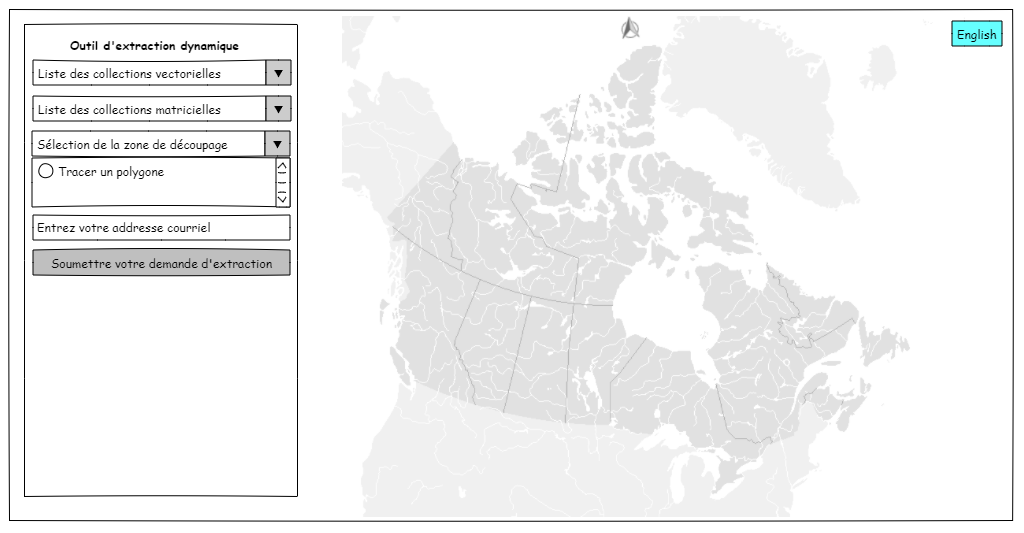
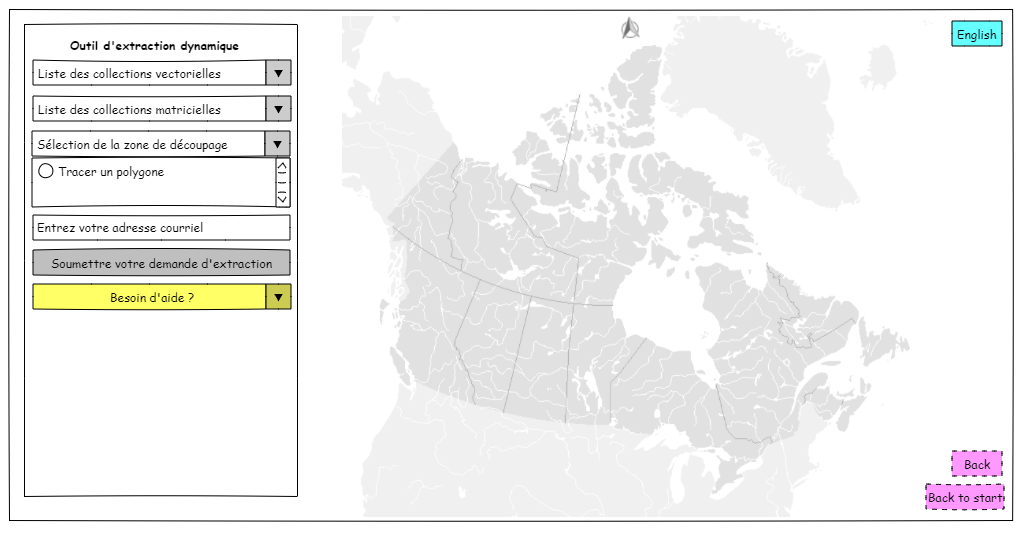
Ajout d'un menu d'aide

Changed region(s): [[0.0312, 0.5103, 0.3125, 0.6004], [0.9062, 0.8405, 1.0, 0.9606], [0.125, 0.4203, 0.2188, 0.4503]]

diff --git a/czs/mockup/phase_1/index.html b/czs/mockup/phase_1/index.html
@@ -1,120 +1,2 @@
-<html xmlns="http://www.w3.org/1999/xhtml"
-    xmlns:p="http://www.evolus.vn/Namespace/Pencil"
-    xmlns:html="http://www.w3.org/1999/xhtml"><head><meta
-            http-equiv="Content-Type" content="text/html; charset=UTF-8" />
-        <title>CZS_plugin_mockup_phase_I</title><link rel="stylesheet"
-            href="Resources/style.css" /><script type="application/javascript"
-            src="Resources/script.js"></script></head><body><h1
-            id="documentTitle">CZS_plugin_mockup_phase_I</h1><p
-            id="documentMetadata">Exported at: Fri Mar 17 2023 10:22:33 GMT-0400
-            (Eastern Daylight Time)</p><div class="Page" id="start_page"><h2>start</h2><div
-                class="ImageContainer"><img src="pages\start.png" width="1024"
-                    height="533" usemap="#map_start" /></div><map
-                name="map_start"><area shape="rect" coords="32,131,290,156.75"
-                    href="#drawpolygone_page" title="Go to page 'draw_polygone'"
-                    /><area shape="rect" coords="33,60,291,85"
-                    href="#vectorlist_page" title="Go to page 'vector_list'" /><area
-                    shape="rect" coords="952,21,1002,46"
-                    href="#switchtoenglish_page" title="Go to page
-                    'switch_to_english'" /></map></div><div class="Page"
-            id="vectorlist_page"><h2>vector_list</h2><div
-                class="ImageContainer"><img src="pages\vectorlist.png"
-                    width="1024" height="533" usemap="#map_vectorlist" /></div><map
-                name="map_vectorlist"><area shape="rect"
-                    coords="39.82864761352539,116,264.705081939697,132"
-                    href="#selectbuildinglayer_page" title="Go to page
-                    'select_building_layer'" /><area shape="rect"
-                    coords="33,60,291,85" href="#vectorlist_page" title="Go to
-                    page 'vector_list'" /></map></div><div class="Page"
-            id="selectbuildinglayer_page"><h2>select_building_layer</h2><div
-                class="ImageContainer"><img src="pages\selectbuildinglayer.png"
-                    width="1024" height="533" usemap="#map_selectbuildinglayer"
-                    /></div><map name="map_selectbuildinglayer"><area
-                    shape="rect" coords="32,256,290,281.75"
-                    href="#selectbuildingdrawpolygone_page" title="Go to page
-                    'select_building_draw_polygone'" /><area shape="rect"
-                    coords="33,60,291,85" href="#vectorlist_page" title="Go to
-                    page 'vector_list'" /></map></div><div class="Page"
-            id="selectbuildingdrawpolygone_page"><h2>select_building_draw_polygone</h2><div
-                class="ImageContainer"><img
-                    src="pages\selectbuildingdrawpolygone.png" width="1024"
-                    height="533" usemap="#map_selectbuildingdrawpolygone" /></div><map
-                name="map_selectbuildingdrawpolygone"><area shape="rect"
-                    coords="38.82864761352539,288,164.480472564697,304"
-                    href="#selectbuildingdraw_page" title="Go to page
-                    'select_building_draw'" /><area shape="rect"
-                    coords="32,256,290,281.75" href="#drawpolygone_page"
-                    title="Go to page 'draw_polygone'" /><area shape="rect"
-                    coords="33,60,291,85" href="#vectorlist_page" title="Go to
-                    page 'vector_list'" /></map></div><div class="Page"
-            id="selectbuildingdraw_page"><h2>select_building_draw</h2><div
-                class="ImageContainer"><img src="pages\selectbuildingdraw.png"
-                    width="1024" height="533" usemap="#map_selectbuildingdraw"
-                    /></div><map name="map_selectbuildingdraw"><area
-                    shape="rect" coords="33,340,290,365" href="#addemail_page"
-                    title="Go to page 'add_email'" /><area shape="rect"
-                    coords="32,256,290,281.75" href="#drawpolygone_page"
-                    title="Go to page 'draw_polygone'" /><area shape="rect"
-                    coords="33,60,291,85" href="#vectorlist_page" title="Go to
-                    page 'vector_list'" /></map></div><div class="Page"
-            id="drawpolygone_page"><h2>draw_polygone</h2><div
-                class="ImageContainer"><img src="pages\drawpolygone.png"
-                    width="1024" height="533" usemap="#map_drawpolygone" /></div><map
-                name="map_drawpolygone"><area shape="rect"
-                    coords="38.82864761352539,163,164.480472564697,179"
-                    href="#draw_page" title="Go to page 'draw'" /><area
-                    shape="rect" coords="33,60,291,85" href="#vectorlist_page"
-                    title="Go to page 'vector_list'" /></map></div><div
-            class="Page" id="draw_page"><h2>draw</h2><div
-                class="ImageContainer"><img src="pages\draw.png" width="1024"
-                    height="533" usemap="#map_draw" /></div><map
-                name="map_draw"><area shape="rect" coords="33,60,291,85"
-                    href="#drawselectcollection_page" title="Go to page
-                    'draw_select_collection'" /></map></div><div class="Page"
-            id="drawselectcollection_page"><h2>draw_select_collection</h2><div
-                class="ImageContainer"><img src="pages\drawselectcollection.png"
-                    width="1024" height="533" usemap="#map_drawselectcollection"
-                    /></div><map name="map_drawselectcollection"><area
-                    shape="rect"
-                    coords="39.82864761352539,116,264.705081939697,132"
-                    href="#drawselectbuildingcollection_page" title="Go to page
-                    'draw_select_building_collection'" /><area shape="rect"
-                    coords="33,60,291,85" href="#vectorlist_page" title="Go to
-                    page 'vector_list'" /></map></div><div class="Page"
-            id="drawselectbuildingcollection_page"><h2>draw_select_building_collection</h2><div
-                class="ImageContainer"><img
-                    src="pages\drawselectbuildingcollection.png" width="1024"
-                    height="533" usemap="#map_drawselectbuildingcollection" /></div><map
-                name="map_drawselectbuildingcollection"><area shape="rect"
-                    coords="33,342,290,367" href="#addemail_page" title="Go to
-                    page 'add_email'" /><area shape="rect" coords="33,60,291,85"
-                    href="#vectorlist_page" title="Go to page 'vector_list'" /></map></div><div
-            class="Page" id="addemail_page"><h2>add_email</h2><div
-                class="ImageContainer"><img src="pages\addemail.png"
-                    width="1024" height="533" usemap="#map_addemail" /></div><map
-                name="map_addemail"><area shape="rect"
-                    coords="33,375.5,290,402.75" href="#validaterequest_page"
-                    title="Go to page 'validate_request'" /><area shape="rect"
-                    coords="33,60,291,85" href="#vectorlist_page" title="Go to
-                    page 'vector_list'" /></map></div><div class="Page"
-            id="validaterequest_page"><h2>validate_request</h2><div
-                class="ImageContainer"><img src="pages\validaterequest.png"
-                    width="1024" height="533" usemap="#map_validaterequest" /></div><map
-                name="map_validaterequest"><area shape="rect"
-                    coords="33,375.5,290,402.75" href="#sendrequest_page"
-                    title="Go to page 'send_request'" /><area shape="rect"
-                    coords="33,60,291,85" href="#vectorlist_page" title="Go to
-                    page 'vector_list'" /></map></div><div class="Page"
-            id="sendrequest_page"><h2>send_request</h2><div
-                class="ImageContainer"><img src="pages\sendrequest.png"
-                    width="1024" height="533" usemap="#map_sendrequest" /></div><map
-                name="map_sendrequest"><area shape="rect" coords="33,60,291,85"
-                    href="#vectorlist_page" title="Go to page 'vector_list'" /></map></div><div
-            class="Page" id="switchtoenglish_page"><h2>switch_to_english</h2><div
-                class="ImageContainer"><img src="pages\switchtoenglish.png"
-                    width="1024" height="533" usemap="#map_switchtoenglish" /></div><map
-                name="map_switchtoenglish"><area shape="rect"
-                    coords="32,131,290,156.75" href="#drawpolygone_page"
-                    title="Go to page 'draw_polygone'" /><area shape="rect"
-                    coords="33,60,291,85" href="#vectorlist_page" title="Go to
-                    page 'vector_list'" /></map></div></body></html>
+<html xmlns="http://www.w3.org/1999/xhtml" xmlns:p="http://www.evolus.vn/Namespace/Pencil" xmlns:html="http://www.w3.org/1999/xhtml"><head><meta http-equiv="Content-Type" content="text/html; charset=UTF-8" />
+<title>CZS_plugin_mockup_phase_I</title><link rel="stylesheet" href="Resources/style.css" /><script type="application/javascript" src="Resources/script.js"></script></head><body><h1 id="documentTitle">CZS_plugin_mockup_phase_I</h1><p id="documentMetadata">Exported at: Mon Mar 20 2023 10:03:12 GMT-0400 (Eastern Daylight Time)</p><div class="Page" id="start_page"><h2>start</h2><div class="ImageContainer"><img src="pages\start.png" width="1024" height="533" usemap="#map_start" /></div><map name="map_start"><area shape="rect" coords="32,234,290,259.75" href="#besoinaide_page" title="Go to page 'besoin_aide'" /><area shape="rect" coords="32,131,290,156.75" href="#drawpolygone_page" title="Go to page 'draw_polygone'" /><area shape="rect" coords="33,60,291,85" href="#vectorlist_page" title="Go to page 'vector_list'" /><area shape="rect" coords="952,21,1002,46" href="#switchtoenglish_page" title="Go to page 'switch_to_english'" /></map></div><div class="Page" id="vectorlist_page"><h2>vector_list</h2><div class="ImageContainer"><img src="pages\vectorlist.png" width="1024" height="533" usemap="#map_vectorlist" /></div><map name="map_vectorlist"><area shape="rect" coords="33,358,291,383.75" href="#drawpolygone_page" title="Go to page 'draw_polygone'" /><area shape="rect" coords="926,484,1004,509.75" href="#start_page" title="Go to page 'start'" /><area shape="rect" coords="952,451,1002,476" href="#start_page" title="Go to page 'start'" /><area shape="rect" coords="39.82864761352539,116,264.705081939697,132" href="#selectbuildinglayer_page" title="Go to page 'select_building_layer'" /><area shape="rect" coords="33,60,291,85" href="#vectorlist_page" title="Go to page 'vector_list'" /></map></div><div class="Page" id="selectbuildinglayer_page"><h2>select_building_layer</h2><div class="ImageContainer"><img src="pages\selectbuildinglayer.png" width="1024" height="533" usemap="#map_selectbuildinglayer" /></div><map name="map_selectbuildinglayer"><area shape="rect" coords="33,358,291,383" href="#drawpolygone_page" title="Go to page 'draw_polygone'" /><area shape="rect" coords="926,485,1004,510.75" href="#start_page" title="Go to page 'start'" /><area shape="rect" coords="952,452,1002,477" href="#vectorlist_page" title="Go to page 'vector_list'" /><area shape="rect" coords="32,256,290,281.75" href="#selectbuildingdrawpolygone_page" title="Go to page 'select_building_draw_polygone'" /><area shape="rect" coords="33,60,291,85" href="#vectorlist_page" title="Go to page 'vector_list'" /></map></div><div class="Page" id="selectbuildingdrawpolygone_page"><h2>select_building_draw_polygone</h2><div class="ImageContainer"><img src="pages\selectbuildingdrawpolygone.png" width="1024" height="533" usemap="#map_selectbuildingdrawpolygone" /></div><map name="map_selectbuildingdrawpolygone"><area shape="rect" coords="33,409,291,434.75" href="#drawpolygone_page" title="Go to page 'draw_polygone'" /><area shape="rect" coords="926,487,1004,512.75" href="#start_page" title="Go to page 'start'" /><area shape="rect" coords="952,454,1002,479" href="#selectbuildinglayer_page" title="Go to page 'select_building_layer'" /><area shape="rect" coords="38.82864761352539,288,164.480472564697,304" href="#selectbuildingdraw_page" title="Go to page 'select_building_draw'" /><area shape="rect" coords="32,256,290,281.75" href="#drawpolygone_page" title="Go to page 'draw_polygone'" /><area shape="rect" coords="33,60,291,85" href="#vectorlist_page" title="Go to page 'vector_list'" /></map></div><div class="Page" id="selectbuildingdraw_page"><h2>select_building_draw</h2><div class="ImageContainer"><img src="pages\selectbuildingdraw.png" width="1024" height="533" usemap="#map_selectbuildingdraw" /></div><map name="map_selectbuildingdraw"><area shape="rect" coords="33,407.5,291,434" href="#drawpolygone_page" title="Go to page 'draw_polygone'" /><area shape="rect" coords="924,484,1002,509.75" href="#selectbuildingdrawpolygone_page" title="Go to page 'select_building_draw_polygone'" /><area shape="rect" coords="950,451,1000,476" href="#selectbuildingdrawpolygone_page" title="Go to page 'select_building_draw_polygone'" /><area shape="rect" coords="33,340,290,365" href="#addemail_page" title="Go to page 'add_email'" /><area shape="rect" coords="32,256,290,281.75" href="#drawpolygone_page" title="Go to page 'draw_polygone'" /><area shape="rect" coords="33,60,291,85" href="#vectorlist_page" title="Go to page 'vector_list'" /></map></div><div class="Page" id="drawpolygone_page"><h2>draw_polygone</h2><div class="ImageContainer"><img src="pages\drawpolygone.png" width="1024" height="533" usemap="#map_drawpolygone" /></div><map name="map_drawpolygone"><area shape="rect" coords="33,284,291,309.75" href="#drawpolygone_page" title="Go to page 'draw_polygone'" /><area shape="rect" coords="926,484,1004,509.75" href="#start_page" title="Go to page 'start'" /><area shape="rect" coords="952,451,1002,476" href="#start_page" title="Go to page 'start'" /><area shape="rect" coords="38.82864761352539,163,164.480472564697,179" href="#draw_page" title="Go to page 'draw'" /><area shape="rect" coords="33,60,291,85" href="#vectorlist_page" title="Go to page 'vector_list'" /></map></div><div class="Page" id="draw_page"><h2>draw</h2><div class="ImageContainer"><img src="pages\draw.png" width="1024" height="533" usemap="#map_draw" /></div><map name="map_draw"><area shape="rect" coords="33,284,291,309" href="#drawpolygone_page" title="Go to page 'draw_polygone'" /><area shape="rect" coords="926,484,1004,509.75" href="#start_page" title="Go to page 'start'" /><area shape="rect" coords="952,451,1002,476" href="#drawpolygone_page" title="Go to page 'draw_polygone'" /><area shape="rect" coords="33,60,291,85" href="#drawselectcollection_page" title="Go to page 'draw_select_collection'" /></map></div><div class="Page" id="drawselectcollection_page"><h2>draw_select_collection</h2><div class="ImageContainer"><img src="pages\drawselectcollection.png" width="1024" height="533" usemap="#map_drawselectcollection" /></div><map name="map_drawselectcollection"><area shape="rect" coords="33,410,291,435.75" href="#drawpolygone_page" title="Go to page 'draw_polygone'" /><area shape="rect" coords="926,484,1004,509.75" href="#start_page" title="Go to page 'start'" /><area shape="rect" coords="952,451,1002,476" href="#draw_page" title="Go to page 'draw'" /><area shape="rect" coords="39.82864761352539,116,264.705081939697,132" href="#drawselectbuildingcollection_page" title="Go to page 'draw_select_building_collection'" /><area shape="rect" coords="33,60,291,85" href="#vectorlist_page" title="Go to page 'vector_list'" /></map></div><div class="Page" id="drawselectbuildingcollection_page"><h2>draw_select_building_collection</h2><div class="ImageContainer"><img src="pages\drawselectbuildingcollection.png" width="1024" height="533" usemap="#map_drawselectbuildingcollection" /></div><map name="map_drawselectbuildingcollection"><area shape="rect" coords="33,410,291,435" href="#drawpolygone_page" title="Go to page 'draw_polygone'" /><area shape="rect" coords="926,484,1004,509.75" href="#start_page" title="Go to page 'start'" /><area shape="rect" coords="952,451,1002,476" href="#drawselectcollection_page" title="Go to page 'draw_select_collection'" /><area shape="rect" coords="33,342,290,367" href="#addemail_page" title="Go to page 'add_email'" /><area shape="rect" coords="33,60,291,85" href="#vectorlist_page" title="Go to page 'vector_list'" /></map></div><div class="Page" id="addemail_page"><h2>add_email</h2><div class="ImageContainer"><img src="pages\addemail.png" width="1024" height="533" usemap="#map_addemail" /></div><map name="map_addemail"><area shape="rect" coords="32,409,290,434.75" href="#besoinaide_page" title="Go to page 'besoin_aide'" /><area shape="rect" coords="926,484,1004,509.75" href="#start_page" title="Go to page 'start'" /><area shape="rect" coords="952,451,1002,476" href="#start_page" title="Go to page 'start'" /><area shape="rect" coords="33,375.5,290,402.75" href="#validaterequest_page" title="Go to page 'validate_request'" /><area shape="rect" coords="33,60,291,85" href="#vectorlist_page" title="Go to page 'vector_list'" /></map></div><div class="Page" id="validaterequest_page"><h2>validate_request</h2><div class="ImageContainer"><img src="pages\validaterequest.png" width="1024" height="533" usemap="#map_validaterequest" /></div><map name="map_validaterequest"><area shape="rect" coords="32,409,290,434.75" href="#besoinaide_page" title="Go to page 'besoin_aide'" /><area shape="rect" coords="926,484,1004,509.75" href="#start_page" title="Go to page 'start'" /><area shape="rect" coords="952,451,1002,476" href="#addemail_page" title="Go to page 'add_email'" /><area shape="rect" coords="33,375.5,290,402.75" href="#sendrequest_page" title="Go to page 'send_request'" /><area shape="rect" coords="33,60,291,85" href="#vectorlist_page" title="Go to page 'vector_list'" /></map></div><div class="Page" id="sendrequest_page"><h2>send_request</h2><div class="ImageContainer"><img src="pages\sendrequest.png" width="1024" height="533" usemap="#map_sendrequest" /></div><map name="map_sendrequest"><area shape="rect" coords="33,479,291,504.75" href="#drawpolygone_page" title="Go to page 'draw_polygone'" /><area shape="rect" coords="926,484,1004,509.75" href="#start_page" title="Go to page 'start'" /><area shape="rect" coords="952,451,1002,476" href="#validaterequest_page" title="Go to page 'validate_request'" /><area shape="rect" coords="33,38,291,63" href="#vectorlist_page" title="Go to page 'vector_list'" /></map></div><div class="Page" id="switchtoenglish_page"><h2>switch_to_english</h2><div class="ImageContainer"><img src="pages\switchtoenglish.png" width="1024" height="533" usemap="#map_switchtoenglish" /></div><map name="map_switchtoenglish"><area shape="rect" coords="926,484,1004,509.75" href="#start_page" title="Go to page 'start'" /><area shape="rect" coords="952,451,1002,476" href="#start_page" title="Go to page 'start'" /><area shape="rect" coords="32,234,290,259.75" href="#drawpolygone_page" title="Go to page 'draw_polygone'" /><area shape="rect" coords="32,131,290,156.75" href="#drawpolygone_page" title="Go to page 'draw_polygone'" /><area shape="rect" coords="33,60,291,85" href="#vectorlist_page" title="Go to page 'vector_list'" /><area shape="rect" coords="952,21,1002,46" href="#start_page" title="Go to page 'start'" /></map></div><div class="Page" id="besoinaide_page"><h2>besoin_aide</h2><div class="ImageContainer"><img src="pages\besoinaide.png" width="1024" height="533" usemap="#map_besoinaide" /></div><map name="map_besoinaide"><area shape="rect" coords="926,484,1004,509.75" href="#start_page" title="Go to page 'start'" /><area shape="rect" coords="952,451,1002,476" href="#start_page" title="Go to page 'start'" /><area shape="rect" coords="33,234,291,259.75" href="#drawpolygone_page" title="Go to page 'draw_polygone'" /><area shape="rect" coords="32,131,290,156.75" href="#drawpolygone_page" title="Go to page 'draw_polygone'" /><area shape="rect" coords="33,60,291,85" href="#vectorlist_page" title="Go to page 'vector_list'" /><area shape="rect" coords="952,21,1002,46" href="#switchtoenglish_page" title="Go to page 'switch_to_english'" /></map></div></body></html>
